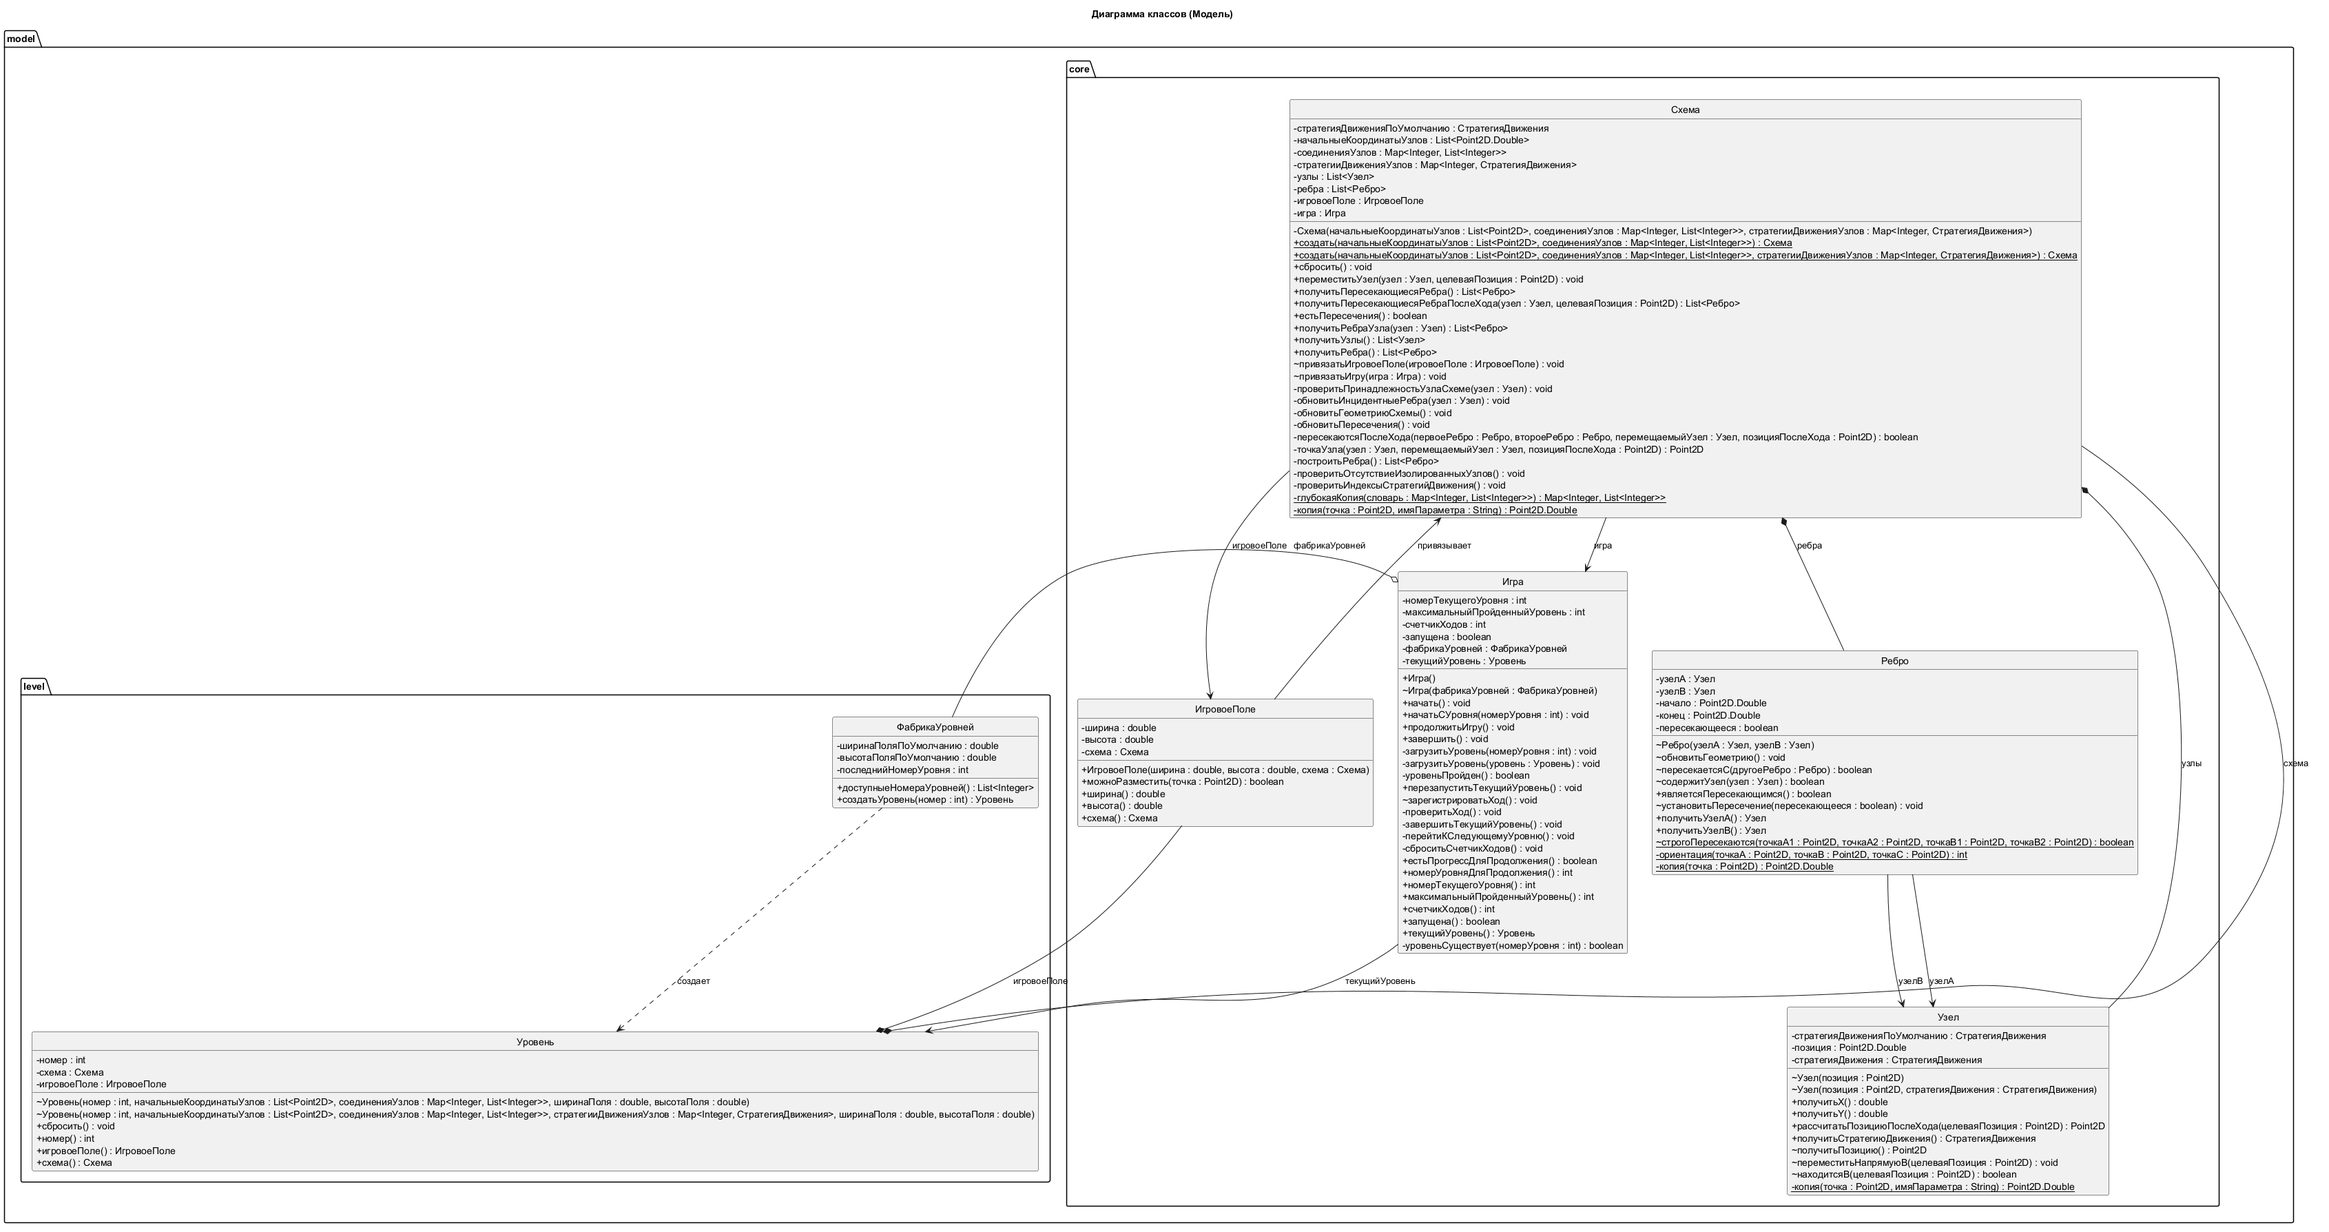
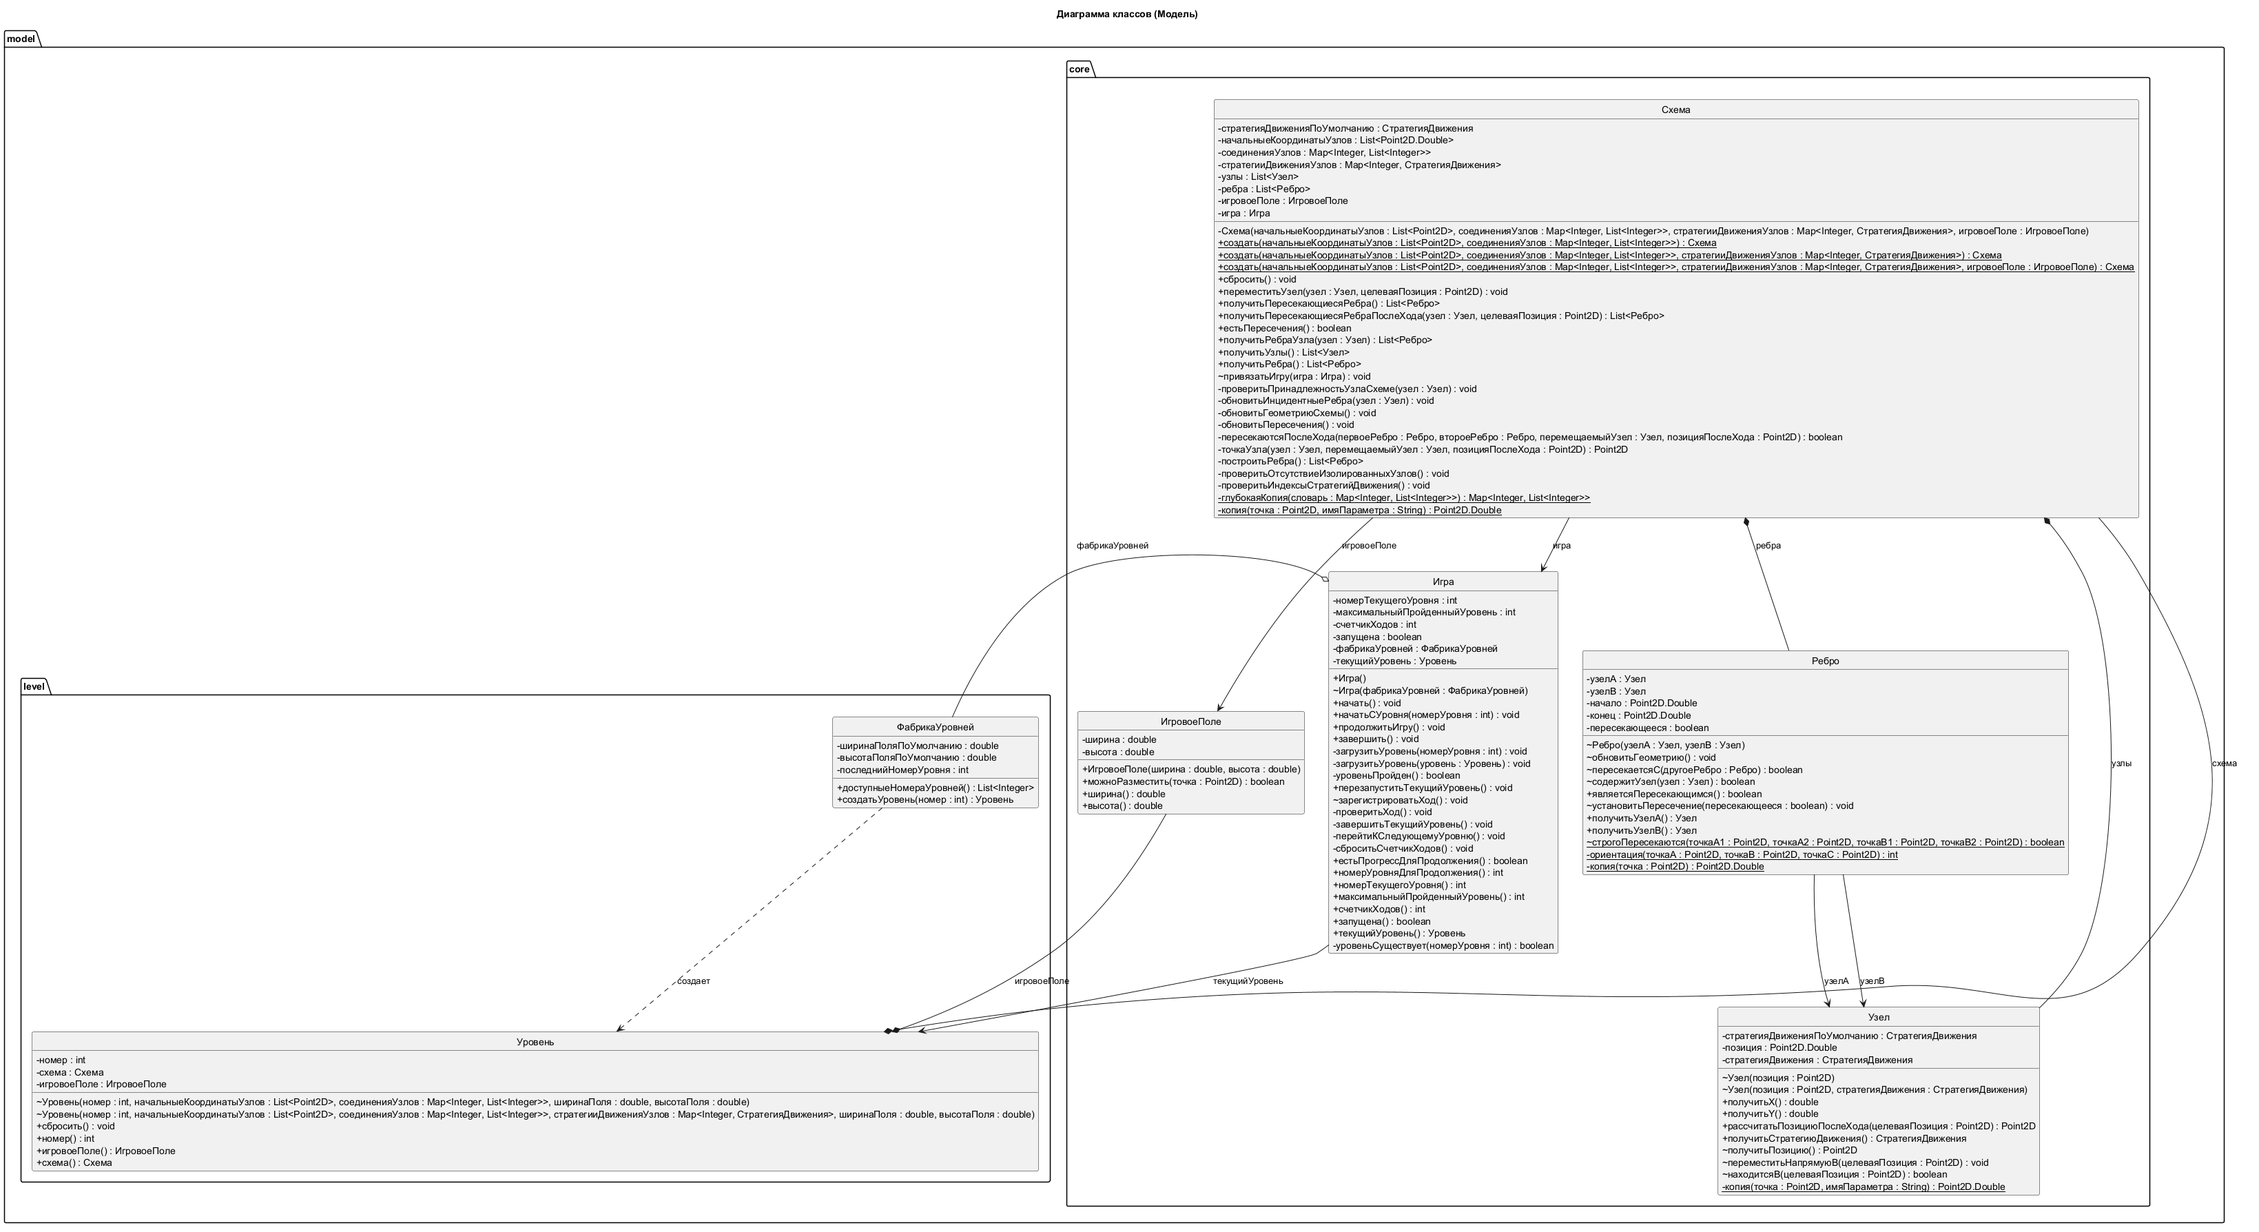
[model] Убрана связь игрового поля со схемой

diff --git a/test/model/core/GameFieldTest.java b/test/model/core/GameFieldTest.java
@@ -4,11 +4,8 @@ import org.junit.jupiter.api.DisplayName;
 import org.junit.jupiter.api.Test;
 
 import java.awt.geom.Point2D;
-import java.util.List;
-import java.util.Map;
 
 import static org.junit.jupiter.api.Assertions.assertFalse;
-import static org.junit.jupiter.api.Assertions.assertSame;
 import static org.junit.jupiter.api.Assertions.assertThrows;
 import static org.junit.jupiter.api.Assertions.assertTrue;
 
@@ -16,22 +13,14 @@ class GameFieldTest {
     @Test
     @DisplayName("Поле принимает точку внутри границ")
     void canPlaceInside() {
-        Scheme scheme = Scheme.create(
-                List.of(new Point2D.Double(0, 0), new Point2D.Double(10, 10), new Point2D.Double(0, 10), new Point2D.Double(10, 0)),
-                Map.of(0, List.of(1, 2), 2, List.of(3))
-        );
-        GameField field = new GameField(100, 100, scheme);
+        GameField field = new GameField(100, 100);
         assertTrue(field.canPlace(new Point2D.Double(50, 50)));
     }
 
     @Test
     @DisplayName("Поле отклоняет точку вне границ")
     void cannotPlaceOutside() {
-        Scheme scheme = Scheme.create(
-                List.of(new Point2D.Double(0, 0), new Point2D.Double(10, 10), new Point2D.Double(0, 10), new Point2D.Double(10, 0)),
-                Map.of(0, List.of(1, 2), 2, List.of(3))
-        );
-        GameField field = new GameField(100, 100, scheme);
+        GameField field = new GameField(100, 100);
         assertFalse(field.canPlace(new Point2D.Double(-1, 50)));
         assertFalse(field.canPlace(new Point2D.Double(50, 101)));
     }
@@ -39,11 +28,7 @@ class GameFieldTest {
     @Test
     @DisplayName("Поле принимает точку на границе")
     void canPlaceOnBoundary() {
-        Scheme scheme = Scheme.create(
-                List.of(new Point2D.Double(0, 0), new Point2D.Double(10, 10), new Point2D.Double(0, 10), new Point2D.Double(10, 0)),
-                Map.of(0, List.of(1, 2), 2, List.of(3))
-        );
-        GameField field = new GameField(100, 100, scheme);
+        GameField field = new GameField(100, 100);
         assertTrue(field.canPlace(new Point2D.Double(0, 0)));
         assertTrue(field.canPlace(new Point2D.Double(100, 100)));
         assertTrue(field.canPlace(new Point2D.Double(100, 0)));
@@ -53,11 +38,7 @@ class GameFieldTest {
     @Test
     @DisplayName("Поле отклоняет точку с нечисловыми координатами")
     void cannotPlaceNaNPoint() {
-        Scheme scheme = Scheme.create(
-                List.of(new Point2D.Double(0, 0), new Point2D.Double(10, 10), new Point2D.Double(0, 10), new Point2D.Double(10, 0)),
-                Map.of(0, List.of(1, 2), 2, List.of(3))
-        );
-        GameField field = new GameField(100, 100, scheme);
+        GameField field = new GameField(100, 100);
         assertFalse(field.canPlace(new Point2D.Double(Double.NaN, 0)));
         assertFalse(field.canPlace(new Point2D.Double(0, Double.NaN)));
     }
@@ -65,38 +46,25 @@ class GameFieldTest {
     @Test
     @DisplayName("Поле требует положительные размеры")
     void fieldRejectsNonPositiveDimensions() {
-        Scheme scheme = Scheme.create(
-                List.of(new Point2D.Double(0, 0), new Point2D.Double(10, 10), new Point2D.Double(0, 10), new Point2D.Double(10, 0)),
-                Map.of(0, List.of(1, 2), 2, List.of(3))
-        );
-        assertThrows(IllegalArgumentException.class, () -> new GameField(0, 100, scheme));
-        assertThrows(IllegalArgumentException.class, () -> new GameField(100, 0, scheme));
-        assertThrows(IllegalArgumentException.class, () -> new GameField(-1, 100, scheme));
+        assertThrows(IllegalArgumentException.class, () -> new GameField(0, 100));
+        assertThrows(IllegalArgumentException.class, () -> new GameField(100, 0));
+        assertThrows(IllegalArgumentException.class, () -> new GameField(-1, 100));
     }
 
     @Test
     @DisplayName("Поле отклоняет точку с бесконечными координатами")
     void cannotPlaceInfinitePoint() {
-        Scheme scheme = Scheme.create(
-                List.of(new Point2D.Double(0, 0), new Point2D.Double(10, 10), new Point2D.Double(0, 10), new Point2D.Double(10, 0)),
-                Map.of(0, List.of(1, 2), 2, List.of(3))
-        );
-        GameField field = new GameField(100, 100, scheme);
+        GameField field = new GameField(100, 100);
         assertFalse(field.canPlace(new Point2D.Double(Double.POSITIVE_INFINITY, 0)));
         assertFalse(field.canPlace(new Point2D.Double(0, Double.NEGATIVE_INFINITY)));
     }
 
     @Test
-    @DisplayName("Поле хранит размеры и привязанную схему")
+    @DisplayName("Поле хранит размеры")
     void fieldExposesState() {
-        Scheme scheme = Scheme.create(
-                List.of(new Point2D.Double(0, 0), new Point2D.Double(10, 10), new Point2D.Double(0, 10), new Point2D.Double(10, 0)),
-                Map.of(0, List.of(1, 2), 2, List.of(3))
-        );
-        GameField field = new GameField(100, 75, scheme);
+        GameField field = new GameField(100, 75);
 
         assertTrue(field.width() == 100);
         assertTrue(field.height() == 75);
-        assertSame(scheme, field.scheme());
     }
 }

diff --git a/test/model/core/SchemeTest.java b/test/model/core/SchemeTest.java
@@ -33,8 +33,6 @@ class SchemeTest {
                         1, List.of(3)
                 )
         );
-        new GameField(100, 100, scheme);
-
         assertTrue(scheme.hasIntersections());
         assertEquals(2, scheme.getIntersectingEdges().size());
     }
@@ -55,8 +53,6 @@ class SchemeTest {
                         1, List.of(3)
                 )
         );
-        new GameField(100, 100, scheme);
-
         Node node1 = scheme.getNodes().get(1);
         scheme.moveNode(node1, new Point2D.Double(90, 5));
 
@@ -80,8 +76,6 @@ class SchemeTest {
                         1, List.of(3)
                 )
         );
-        new GameField(100, 100, scheme);
-
         scheme.moveNode(scheme.getNodes().get(1), new Point2D.Double(90, 5));
         assertFalse(scheme.hasIntersections());
 
@@ -107,8 +101,6 @@ class SchemeTest {
                         1, List.of(3)
                 )
         );
-        new GameField(100, 100, scheme);
-
         assertEquals(2, scheme.getEdgesOfNode(scheme.getNodes().get(0)).size());
         assertEquals(2, scheme.getEdgesOfNode(scheme.getNodes().get(1)).size());
         assertEquals(2, scheme.getEdgesOfNode(scheme.getNodes().get(2)).size());
@@ -142,8 +134,6 @@ class SchemeTest {
                         1, List.of(3)
                 )
         );
-        new GameField(100, 100, scheme);
-
         assertThrows(UnsupportedOperationException.class, () -> scheme.getIntersectingEdges().add(scheme.getEdges().get(0)));
     }
 
@@ -210,8 +200,6 @@ class SchemeTest {
                         1, new HorizontalMovementStrategy()
                 )
         );
-        new GameField(100, 100, scheme);
-
         Node fixedNode = scheme.getNodes().get(0);
         Node horizontalNode = scheme.getNodes().get(1);
 
@@ -234,9 +222,9 @@ class SchemeTest {
                         new Point2D.Double(0, 20)
                 ),
                 Map.of(0, List.of(1, 2), 1, List.of(2)),
-                Map.of(1, new HorizontalMovementStrategy())
+                Map.of(1, new HorizontalMovementStrategy()),
+                new GameField(100, 100)
         );
-        new GameField(100, 100, scheme);
         Node node = scheme.getNodes().get(1);
 
         scheme.moveNode(node, new Point2D.Double(60, 200));
@@ -257,7 +245,6 @@ class SchemeTest {
                 Map.of(0, List.of(1, 2), 1, List.of(2)),
                 Map.of(1, new HorizontalMovementStrategy())
         );
-        new GameField(100, 100, scheme);
         Node node = scheme.getNodes().get(1);
 
         scheme.moveNode(node, new Point2D.Double(60, 70));

diff --git a/src/model/core/Scheme.java b/src/model/core/Scheme.java
@@ -23,13 +23,14 @@ public final class Scheme {
     private final List<Node> nodes;
     private final List<Edge> edges;
 
-    private GameField gameField;
+    private final GameField gameField;
     private Game game;
 
     private Scheme(
             List<Point2D> initialNodeCoordinates,
             Map<Integer, List<Integer>> nodeConnections,
-            Map<Integer, MovementStrategy> nodeMovementStrategies
+            Map<Integer, MovementStrategy> nodeMovementStrategies,
+            GameField gameField
     ) {
         Objects.requireNonNull(initialNodeCoordinates, "initialNodeCoordinates");
         List<Point2D.Double> copies = new ArrayList<>(initialNodeCoordinates.size());
@@ -39,6 +40,7 @@ public final class Scheme {
         this.initialNodeCoordinates = List.copyOf(copies);
         this.nodeConnections = deepCopy(Objects.requireNonNull(nodeConnections, "nodeConnections"));
         this.nodeMovementStrategies = Map.copyOf(Objects.requireNonNull(nodeMovementStrategies, "nodeMovementStrategies"));
+        this.gameField = gameField;
 
         if (this.initialNodeCoordinates.size() < 3) {
             throw new IllegalArgumentException("Смеха должна состоять минимум из трёх узлов");
@@ -67,7 +69,16 @@ public final class Scheme {
             Map<Integer, List<Integer>> nodeConnections,
             Map<Integer, MovementStrategy> nodeMovementStrategies
     ) {
-        return new Scheme(initialNodeCoordinates, nodeConnections, nodeMovementStrategies);
+        return new Scheme(initialNodeCoordinates, nodeConnections, nodeMovementStrategies, null);
+    }
+
+    public static Scheme create(
+            List<Point2D> initialNodeCoordinates,
+            Map<Integer, List<Integer>> nodeConnections,
+            Map<Integer, MovementStrategy> nodeMovementStrategies,
+            GameField gameField
+    ) {
+        return new Scheme(initialNodeCoordinates, nodeConnections, nodeMovementStrategies, Objects.requireNonNull(gameField, "gameField"));
     }
 
     public void reset() {
@@ -157,10 +168,6 @@ public final class Scheme {
 
     public List<Edge> getEdges() {
         return List.copyOf(edges);
-    }
-
-    void bindGameField(GameField gameField) {
-        this.gameField = Objects.requireNonNull(gameField, "gameField");
     }
 
     void bindGame(Game game) {

diff --git a/test/model/core/GameFieldValidationTest.java b/test/model/core/GameFieldValidationTest.java
@@ -4,37 +4,21 @@ import org.junit.jupiter.api.DisplayName;
 import org.junit.jupiter.api.Test;
 
 import java.awt.geom.Point2D;
-import java.util.List;
-import java.util.Map;
 
 import static org.junit.jupiter.api.Assertions.assertThrows;
 
 class GameFieldValidationTest {
     @Test
-    @DisplayName("Поле не принимает пустую схему")
-    void fieldRejectsNullScheme() {
-        assertThrows(NullPointerException.class, () -> new GameField(100, 100, null));
-    }
-
-    @Test
     @DisplayName("Поле не принимает пустую точку")
     void fieldRejectsNullPoint() {
-        Scheme scheme = Scheme.create(
-                List.of(new Point2D.Double(0, 0), new Point2D.Double(10, 10), new Point2D.Double(0, 10), new Point2D.Double(10, 0)),
-                Map.of(0, List.of(1, 2), 2, List.of(3))
-        );
-        GameField field = new GameField(100, 100, scheme);
+        GameField field = new GameField(100, 100);
         assertThrows(NullPointerException.class, () -> field.canPlace(null));
     }
 
     @Test
     @DisplayName("Поле не принимает бесконечные размеры")
     void fieldRejectsInfiniteDimensions() {
-        Scheme scheme = Scheme.create(
-                List.of(new Point2D.Double(0, 0), new Point2D.Double(10, 10), new Point2D.Double(0, 10), new Point2D.Double(10, 0)),
-                Map.of(0, List.of(1, 2), 2, List.of(3))
-        );
-        assertThrows(IllegalArgumentException.class, () -> new GameField(Double.POSITIVE_INFINITY, 100, scheme));
-        assertThrows(IllegalArgumentException.class, () -> new GameField(100, Double.NEGATIVE_INFINITY, scheme));
+        assertThrows(IllegalArgumentException.class, () -> new GameField(Double.POSITIVE_INFINITY, 100));
+        assertThrows(IllegalArgumentException.class, () -> new GameField(100, Double.NEGATIVE_INFINITY));
     }
 }

diff --git a/test/model/core/SchemeValidationTest.java b/test/model/core/SchemeValidationTest.java
@@ -125,17 +125,22 @@ class SchemeValidationTest {
     void rejectsNullArgs() {
         assertThrows(NullPointerException.class, () -> Scheme.create(null, Map.of()));
         assertThrows(NullPointerException.class, () -> Scheme.create(List.of(new Point2D.Double(0, 0), new Point2D.Double(1, 0), new Point2D.Double(0, 1)), null));
+        assertThrows(NullPointerException.class, () -> Scheme.create(
+                List.of(new Point2D.Double(0, 0), new Point2D.Double(1, 0), new Point2D.Double(0, 1)),
+                Map.of(0, List.of(1, 2), 1, List.of(2)),
+                Map.of(),
+                null
+        ));
     }
 
     @Test
-    @DisplayName("Схема не принимает пустые значения при привязке игры и поля")
+    @DisplayName("Схема не принимает пустую игру при привязке")
     void bindRejectsNull() {
         Scheme scheme = Scheme.create(
                 List.of(new Point2D.Double(0, 0), new Point2D.Double(1, 0), new Point2D.Double(0, 1)),
                 Map.of(0, List.of(1, 2), 1, List.of(2))
         );
         assertThrows(NullPointerException.class, () -> scheme.bindGame(null));
-        assertThrows(NullPointerException.class, () -> scheme.bindGameField(null));
     }
 
     @Test

diff --git a/src/model/core/GameField.java b/src/model/core/GameField.java
@@ -6,16 +6,13 @@ import java.util.Objects;
 public final class GameField {
     private final double width;
     private final double height;
-    private final Scheme scheme;
 
-    public GameField(double width, double height, Scheme scheme) {
+    public GameField(double width, double height) {
         if (!Double.isFinite(width) || !Double.isFinite(height) || width <= 0 || height <= 0) {
             throw new IllegalArgumentException("Ширина и высота должны быть конечными положительными величинами");
         }
         this.width = width;
         this.height = height;
-        this.scheme = Objects.requireNonNull(scheme, "scheme");
-        this.scheme.bindGameField(this);
     }
 
     public boolean canPlace(Point2D point) {
@@ -31,9 +28,5 @@ public final class GameField {
 
     public double height() {
         return height;
-    }
-
-    public Scheme scheme() {
-        return scheme;
     }
 }

diff --git a/src/model/level/Level.java b/src/model/level/Level.java
@@ -34,8 +34,8 @@ public final class Level {
         Map<Integer, List<Integer>> copiedNodeConnections = Map.copyOf(Objects.requireNonNull(nodeConnections, "nodeConnections"));
         Map<Integer, MovementStrategy> copiedNodeMovementStrategies = Map.copyOf(Objects.requireNonNull(nodeMovementStrategies, "nodeMovementStrategies"));
 
-        this.scheme = Scheme.create(copiedInitialNodeCoordinates, copiedNodeConnections, copiedNodeMovementStrategies);
-        this.gameField = new GameField(fieldWidth, fieldHeight, scheme);
+        this.gameField = new GameField(fieldWidth, fieldHeight);
+        this.scheme = Scheme.create(copiedInitialNodeCoordinates, copiedNodeConnections, copiedNodeMovementStrategies, gameField);
     }
 
     public void reset() {

diff --git a/test/model/level/LevelTest.java b/test/model/level/LevelTest.java
@@ -17,7 +17,6 @@ import java.util.Map;
 
 import static org.junit.jupiter.api.Assertions.assertEquals;
 import static org.junit.jupiter.api.Assertions.assertInstanceOf;
-import static org.junit.jupiter.api.Assertions.assertSame;
 import static org.junit.jupiter.api.Assertions.assertThrows;
 import static org.junit.jupiter.api.Assertions.assertTrue;
 
@@ -53,7 +52,7 @@ class LevelTest {
 
         assertEquals(100, level.gameField().width());
         assertEquals(100, level.gameField().height());
-        assertSame(level.scheme(), level.gameField().scheme());
+        assertEquals(4, level.scheme().getNodes().size());
     }
 
     @Test
